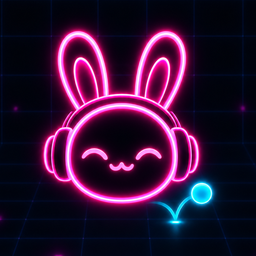
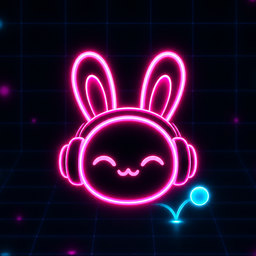
feat : add please jump, beat bouncer 아이콘 1.3배판으로 교체

diff --git a/please-jump/ko/index.html b/please-jump/ko/index.html
@@ -1,0 +1,85 @@
+<!doctype html>
+<html lang="ko">
+<head>
+<meta charset="utf-8">
+<meta name="viewport" content="width=device-width, initial-scale=1">
+<title>Please, JUMP!</title>
+<meta name="description" content="Bob을 목적지까지 데려다주세요! 시키는 대로 할 겁니다. 아마도...요?">
+<meta name="theme-color" content="#05060f">
+<meta property="og:title" content="Please, JUMP!">
+<meta property="og:description" content="음성으로 명령해서 Bob을 목적지로 데려다주자!">
+<meta property="og:image" content="https://nglsena0722.github.io/assets/img/pleasejump-icon.png">
+<link rel="icon" href="../../assets/img/pleasejump-icon.png">
+<link rel="alternate" hreflang="en" href="https://nglsena0722.github.io/please-jump/">
+<link rel="alternate" hreflang="ko" href="https://nglsena0722.github.io/please-jump/ko/">
+<link rel="stylesheet" href="../../assets/site.css">
+
+<style>
+  .hero { padding: 4px 0 8px; text-align: center; }
+  .hero .wordmark { font-size: 44px; margin: 8px 0 0; }
+  .hero-icon { width: 120px; height: 120px; margin: 18px auto 4px; border-radius: 28px; box-shadow: 0 12px 32px rgba(0,0,0,0.4); display: block; }
+  .hero .tagline { font-size: 18px; color: var(--ink); font-weight: 600; margin: 4px 0 14px; }
+  .hero .lede { margin: 0 auto 28px; text-align: center; }
+  .cta-row { display: flex; justify-content: center; margin-bottom: 8px; }
+  .soon-note { font-size: 14px; color: var(--ink-faint); }
+
+  .section-heading {
+    font-size: 13px;
+    font-weight: 600;
+    letter-spacing: 0.1em;
+    text-transform: uppercase;
+    color: var(--ink-faint);
+    margin: 52px 0 4px;
+  }
+
+  .variants {
+    display: flex;
+    flex-wrap: wrap;
+    gap: 10px;
+    margin: 16px 0 10px;
+  }
+  .variant-tag {
+    font-size: 14px;
+    padding: 8px 14px;
+    border-radius: 999px;
+    border: 1px solid var(--hairline);
+    color: var(--ink-dim);
+  }
+  .variants + p { color: var(--ink-faint); font-size: 14px; }
+</style>
+</head>
+<body>
+<div class="stars"></div>
+<main>
+  <div class="topbar">
+    <a class="back-link" href="/ko/">← Start Small</a>
+    <a class="lang-switch" href="/please-jump/">English</a>
+  </div>
+
+  <div class="hero">
+    <p class="eyebrow">Game</p>
+    <h1 class="wordmark">Please, JUMP!</h1>
+    <img class="hero-icon" src="../../assets/img/pleasejump-icon.png" alt="">
+    <p class="tagline">음성으로 명령해서 Bob을 목적지로 데려다주자!</p>
+    <p class="lede">Bob을 목적지까지 데려다주세요! 시키는 대로 할 겁니다. 아마도...요?</p>
+    <div class="cta-row">
+      <p class="soon-note">App Store·Google Play 출시 예정.</p>
+    </div>
+  </div>
+
+  <p class="section-heading">세 개의 세계를 모험해요</p>
+  <div class="variants">
+    <span class="variant-tag">바람초원</span>
+    <span class="variant-tag">얼음 왕국</span>
+    <span class="variant-tag">달거울 동굴</span>
+  </div>
+  <p>세 개의 스테이지, 스테이지마다 보스가 기다려요.</p>
+
+  <footer class="site-footer">
+    <a href="../../legal/please-jump/privacy.html">개인정보처리방침</a>
+    <a href="../../legal/please-jump/terms.html">이용약관</a>
+    <a href="mailto:nglsena0722@gmail.com">nglsena0722@gmail.com</a>
+  </footer>
+</main>
+</body>
+</html>

diff --git a/please-jump/index.html b/please-jump/index.html
@@ -1,0 +1,85 @@
+<!doctype html>
+<html lang="en">
+<head>
+<meta charset="utf-8">
+<meta name="viewport" content="width=device-width, initial-scale=1">
+<title>Please, JUMP!</title>
+<meta name="description" content="Take Bob to the goal! He'll do what you say. Probably...?">
+<meta name="theme-color" content="#05060f">
+<meta property="og:title" content="Please, JUMP!">
+<meta property="og:description" content="Guide Bob with your voice!">
+<meta property="og:image" content="https://nglsena0722.github.io/assets/img/pleasejump-icon.png">
+<link rel="icon" href="../assets/img/pleasejump-icon.png">
+<link rel="alternate" hreflang="en" href="https://nglsena0722.github.io/please-jump/">
+<link rel="alternate" hreflang="ko" href="https://nglsena0722.github.io/please-jump/ko/">
+<link rel="stylesheet" href="../assets/site.css">
+
+<style>
+  .hero { padding: 4px 0 8px; text-align: center; }
+  .hero .wordmark { font-size: 44px; margin: 8px 0 0; }
+  .hero-icon { width: 120px; height: 120px; margin: 18px auto 4px; border-radius: 28px; box-shadow: 0 12px 32px rgba(0,0,0,0.4); display: block; }
+  .hero .tagline { font-size: 18px; color: var(--ink); font-weight: 600; margin: 4px 0 14px; }
+  .hero .lede { margin: 0 auto 28px; text-align: center; }
+  .cta-row { display: flex; justify-content: center; margin-bottom: 8px; }
+  .soon-note { font-size: 14px; color: var(--ink-faint); }
+
+  .section-heading {
+    font-size: 13px;
+    font-weight: 600;
+    letter-spacing: 0.1em;
+    text-transform: uppercase;
+    color: var(--ink-faint);
+    margin: 52px 0 4px;
+  }
+
+  .variants {
+    display: flex;
+    flex-wrap: wrap;
+    gap: 10px;
+    margin: 16px 0 10px;
+  }
+  .variant-tag {
+    font-size: 14px;
+    padding: 8px 14px;
+    border-radius: 999px;
+    border: 1px solid var(--hairline);
+    color: var(--ink-dim);
+  }
+  .variants + p { color: var(--ink-faint); font-size: 14px; }
+</style>
+</head>
+<body>
+<div class="stars"></div>
+<main>
+  <div class="topbar">
+    <a class="back-link" href="/">← Start Small</a>
+    <a class="lang-switch" href="/please-jump/ko/">한국어</a>
+  </div>
+
+  <div class="hero">
+    <p class="eyebrow">Game</p>
+    <h1 class="wordmark">Please, JUMP!</h1>
+    <img class="hero-icon" src="../assets/img/pleasejump-icon.png" alt="">
+    <p class="tagline">Guide Bob with your voice!</p>
+    <p class="lede">Take Bob to the goal! He'll do what you say. Probably...?</p>
+    <div class="cta-row">
+      <p class="soon-note">Coming soon to the App Store and Google Play in Korea.</p>
+    </div>
+  </div>
+
+  <p class="section-heading">Three worlds to explore</p>
+  <div class="variants">
+    <span class="variant-tag">Windy Meadow</span>
+    <span class="variant-tag">Ice Kingdom</span>
+    <span class="variant-tag">Moon Mirror Cave</span>
+  </div>
+  <p>Three stages, each with a boss waiting at the end.</p>
+
+  <footer class="site-footer">
+    <a href="../legal/please-jump/privacy.html">Privacy Policy</a>
+    <a href="../legal/please-jump/terms.html">Terms of Service</a>
+    <a href="mailto:nglsena0722@gmail.com">nglsena0722@gmail.com</a>
+  </footer>
+</main>
+</body>
+</html>

diff --git a/ko/index.html b/ko/index.html
@@ -116,6 +116,15 @@
     <span class="app-arrow" aria-hidden="true">→</span>
   </a>
 
+  <a class="app-card" href="/please-jump/ko/">
+    <img src="../assets/img/pleasejump-icon.png" alt="">
+    <div>
+      <p class="app-name">Please, JUMP!</p>
+      <p class="app-sub">음성으로 명령해서 Bob을 목적지로 데려다주자!</p>
+    </div>
+    <span class="app-arrow" aria-hidden="true">→</span>
+  </a>
+
   <footer class="site-footer">
     <span>© 2026 Start Small</span>
     <a href="mailto:nglsena0722@gmail.com">nglsena0722@gmail.com</a>

diff --git a/index.html b/index.html
@@ -116,6 +116,15 @@
     <span class="app-arrow" aria-hidden="true">→</span>
   </a>
 
+  <a class="app-card" href="/please-jump/">
+    <img src="assets/img/pleasejump-icon.png" alt="">
+    <div>
+      <p class="app-name">Please, JUMP!</p>
+      <p class="app-sub">Guide Bob with your voice!</p>
+    </div>
+    <span class="app-arrow" aria-hidden="true">→</span>
+  </a>
+
   <footer class="site-footer">
     <span>© 2026 Start Small</span>
     <a href="mailto:nglsena0722@gmail.com">nglsena0722@gmail.com</a>
